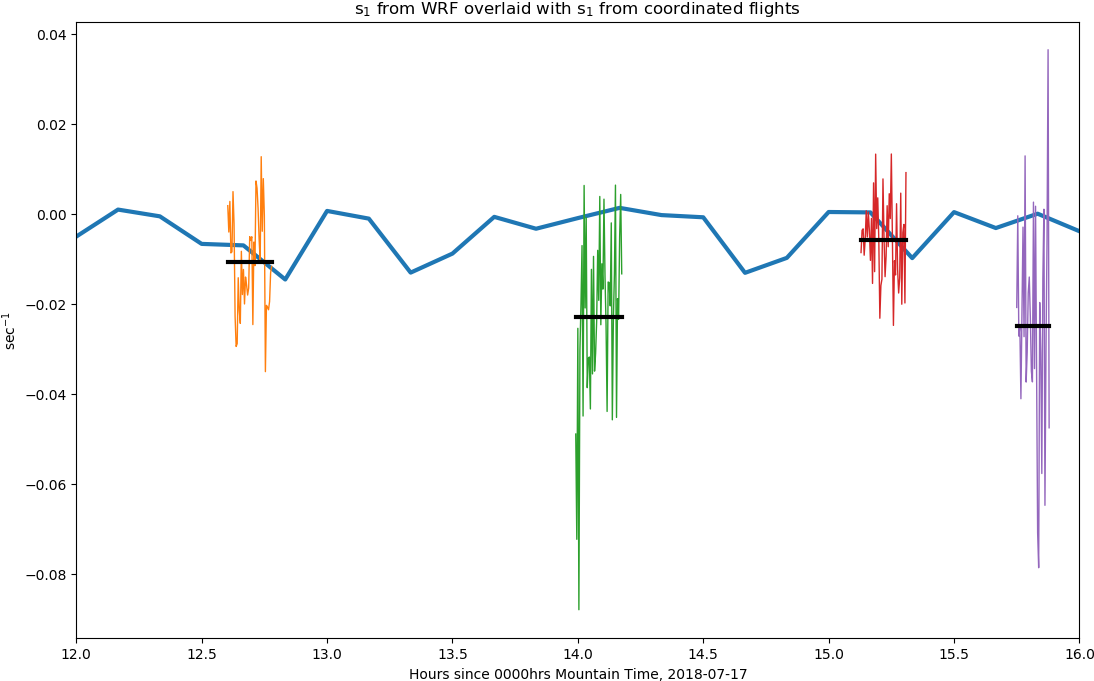
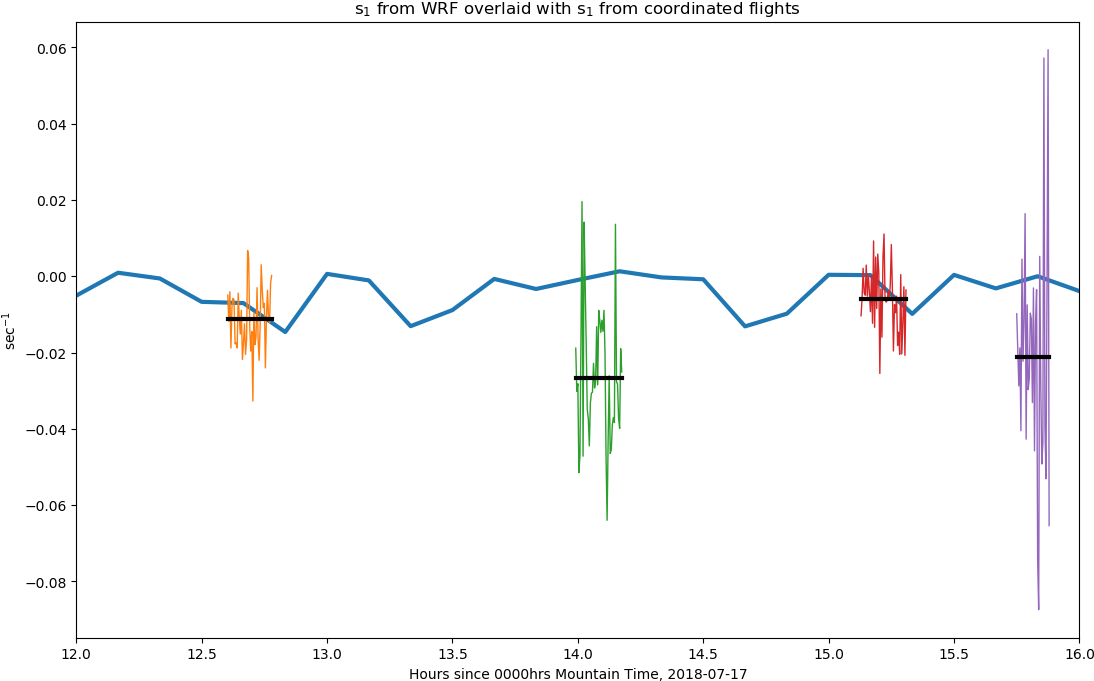
fix

diff --git a/plot_drone+wrf_s1.py b/plot_drone+wrf_s1.py
@@ -70,7 +70,7 @@ for i, pair in enumerate(paired_flights):
         seconds.append(hrs_in_sec+min_in_sec+sec)
     schmale_data['time'] = seconds
 
-    ground_data = pd.read_csv('Ground2_MetData.txt', delim_whitespace=True,header=1,names=['date','time','wind_speed','wind_dir','temp'])
+    ground_data = pd.read_csv('Ground5_MetData.txt', delim_whitespace=True,header=1,names=['date','time','wind_speed','wind_dir','temp'])
     seconds = []
     for t in range(ground_data.shape[0]):
         hrs_in_sec = int(ground_data['time'][t][0:2])*3600
